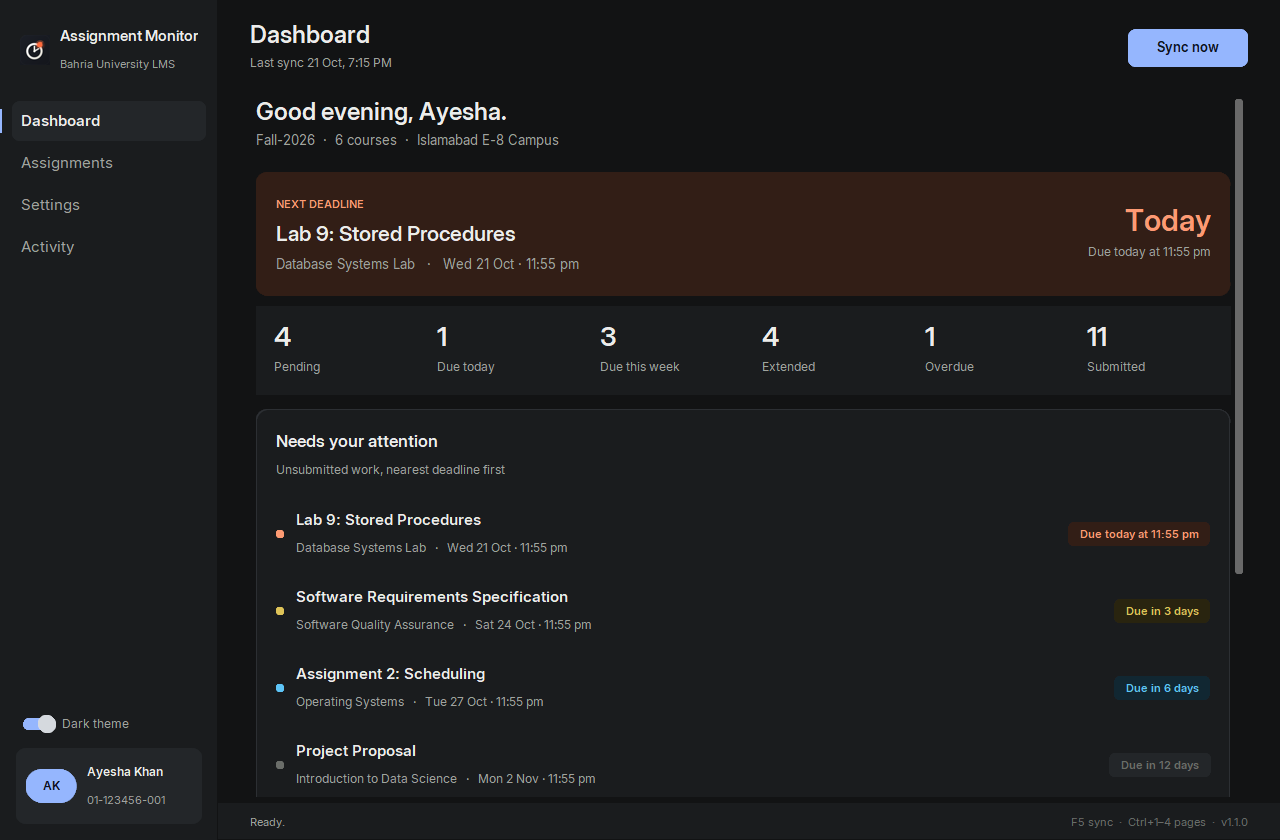
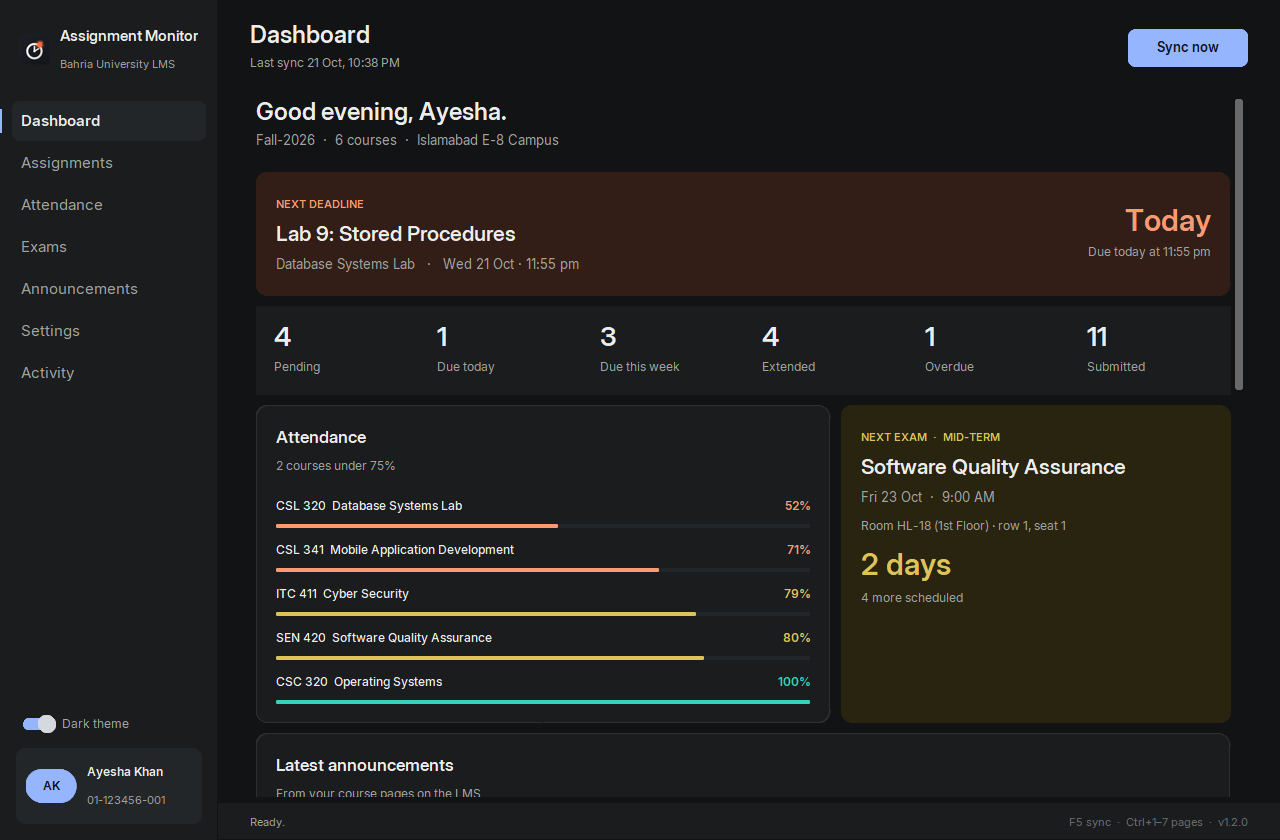
Attendance, exam and announcement alerts are notifications only (voice stays for assignments); website describes the four things the app watches, with attendance and exams in the gallery, a five-step tour over the new dashboard, fresh screenshots and updated FAQ

diff --git a/website/src/data/content.js b/website/src/data/content.js
@@ -15,30 +15,35 @@ export const LINKS = {
 
 export const TICKER = [
   "Checks every evening at 19:00", "Catch-up check after you sign in", "Hourly voice reminder on due days", "Catches extended deadlines",
-  "Reads every course, not just one", "Runs in the tray, no window needed", "Islamabad · Lahore · Karachi campuses", "Nothing sent anywhere but the portal",
+  "Attendance margin per course", "Exam room and seat, with a countdown", "Course announcements in one feed", "Runs in the tray, no window needed",
+  "Islamabad · Lahore · Karachi campuses", "Nothing sent anywhere but the portal",
 ];
 
 export const NUMBERS = [
   { value: 19, suffix: ":00", text: "Automatic check every evening, plus a catch-up when you sign in" },
   { value: 60, suffix: " min", text: "Between voice reminders while an unsubmitted assignment is due today" },
-  { value: 2, suffix: " dates", text: "Read from every deadline: the original and the extension the portal merges into it" },
+  { value: 4, suffix: " things", text: "Watched for you: assignments, attendance, the exam seating plan and course announcements" },
   { value: 3, suffix: " campuses", text: "Islamabad, Lahore and Karachi. Pick yours at sign-in; nothing of yours leaves your PC" },
 ];
 
 export const TOUR = [
-  { spot: [20.5, 25, 75.5, 14.6], label: "Next deadline", title: "The next deadline, with a countdown", text: "Whatever is due soonest and still unsubmitted sits at the top, coloured by urgency. Today is red, this week is amber, later is quiet." },
-  { spot: [20.5, 40.5, 75.5, 11.5], label: "Six counters", title: "Pending, due today, this week, extended, overdue, submitted", text: "Each counter is a filter. Click it and the Assignments page opens on exactly that slice." },
-  { spot: [20.5, 53.5, 75.5, 44], label: "Needs your attention", title: "Everything open, nearest first", text: "Unsubmitted work sorted by deadline, each with its course and exact due time. No digging through six course pages." },
-  { spot: [1, 2.5, 17, 96], label: "Always a click away", title: "Light or dark, tray or window", text: "Switch the theme any time. Close the window and it keeps running in the tray; the background checks run even when it doesn't." },
+  { spot: [20, 20.5, 76.1, 14.9], label: "Next deadline", title: "The next deadline, with a countdown", text: "Whatever is due soonest and still unsubmitted sits at the top, coloured by urgency. Today is red, this week is amber, later is quiet." },
+  { spot: [20, 36.3, 76.1, 10.7], label: "Six counters", title: "Pending, due today, this week, extended, overdue, submitted", text: "Each counter is a filter. Click it and the Assignments page opens on exactly that slice." },
+  { spot: [20, 48.2, 44.9, 37.7], label: "Attendance", title: "Your attendance margin, weakest course first", text: "Every course's percentage from the CMS. Red is under the 75% rule; the Attendance page behind it says how many classes you can still miss, or must attend." },
+  { spot: [65.8, 48.2, 30.3, 37.7], label: "Next exam", title: "Room and seat before you have to ask", text: "The seating plan from the CMS with a countdown, time, room, row and seat. A notification comes the day before and on the morning of the paper." },
+  { spot: [1, 2.5, 16, 96], label: "Always a click away", title: "Light or dark, tray or window", text: "Switch the theme any time. Close the window and it keeps running in the tray; the background checks run even when it doesn't." },
 ];
 
 export const FEATURES = [
   { n: "01", tag: "Deadlines", title: "Catches extended deadlines", text: "When a teacher moves a date, the LMS squashes old and new into one string. The app reads both and flags the change.", datestr: { now: "4 October 2026 - 11:50 am", was: "13 September 2026-11:55 am" } },
   { n: "02", tag: "Reminders", title: "Reminds you out loud", text: "On the day something is due and still unsubmitted, a spoken reminder and a Windows notification every hour until it's done. Pick the voice, volume and speed." },
-  { n: "03", tag: "Automation", title: "Runs itself", text: "Three Windows tasks under your own account. No admin rights, no service, and they work with the window closed.", list: [["Daily check", "19:00"], ["Catch-up check", "2 min after sign-in"], ["Due-today reminder", "hourly"]] },
-  { n: "04", tag: "Tray", title: "Lives in the tray", text: "Close the window and it keeps running quietly. Right-click the icon to open, sync now, or quit. Optionally starts with Windows." },
-  { n: "05", tag: "Updates", title: "Updates itself, safely", text: "Checks the project's GitHub releases on start (switchable). One click downloads the new installer, closes, reinstalls and reopens. Your sign-in and data are kept." },
-  { n: "06", tag: "Source", title: "Open, auditable, yours", text: "MIT licensed. Every release is built by GitHub Actions from the public repository, with tests and a dependency audit on every commit." },
+  { n: "03", tag: "Attendance", title: "Knows your attendance margin", text: "Every course's hours and percentage from the CMS, how many classes you can still miss for the 75% rule, and a notification the day an absence is recorded.", list: [["Under minimum", "needs 10 h present"], ["At risk", "can miss 1 h"], ["On track", "can miss 6 h"]] },
+  { n: "04", tag: "Exams", title: "Carries your seating plan", text: "Date, session, time, room, row and seat for every paper, a countdown on the dashboard, and a notification the day before and on the morning of the exam." },
+  { n: "05", tag: "Announcements", title: "Reads every course's notices", text: "Announcements from all your course pages in one feed, newest first, with a notification for each new one. Deadline extensions are often posted here first." },
+  { n: "06", tag: "Automation", title: "Runs itself", text: "Three Windows tasks under your own account. No admin rights, no service, and they work with the window closed.", list: [["Daily check", "19:00"], ["Catch-up check", "2 min after sign-in"], ["Due-today reminder", "hourly"]] },
+  { n: "07", tag: "Tray", title: "Lives in the tray", text: "Close the window and it keeps running quietly. Right-click the icon to open, sync now, or quit. Optionally starts with Windows." },
+  { n: "08", tag: "Updates", title: "Updates itself, safely", text: "Checks the project's GitHub releases on start (switchable). One click downloads the new installer, closes, reinstalls and reopens. Your sign-in and data are kept." },
+  { n: "09", tag: "Source", title: "Open, auditable, yours", text: "MIT licensed. Every release is built by GitHub Actions from the public repository, with tests and a dependency audit on every commit." },
 ];
 
 export const STEPS = [
@@ -49,8 +54,10 @@ export const STEPS = [
 
 export const SCREENS = [
   { id: "dashboard", label: "Dashboard", caption: "Dashboard: next deadline, counters, attention list, course progress." },
+  { id: "attendance", label: "Attendance", caption: "Attendance: every course's hours, the margin to the 75% rule, and the class-by-class record." },
+  { id: "exams", label: "Exams", caption: "Exams: the seating plan with room, row and seat, and a countdown to each paper." },
   { id: "assignments", label: "Assignments", caption: "Assignments: filters, course picker, search, extension history and marks." },
-  { id: "settings", label: "Settings", caption: "Settings: account, theme, tray, voice and notifications, automatic checks, privacy." },
+  { id: "settings", label: "Settings", caption: "Settings: account, theme, tray, voice and notifications, campus tracking, automatic checks, privacy." },
   { id: "setup", label: "Sign-in", caption: "First run: sign in once, tick automatic checks, done." },
 ];
 
@@ -63,12 +70,13 @@ export const PRIVACY_CARDS = [
 export const FAQ = [
   { q: "Windows says \"Windows protected your PC\". Is it safe?", a: "Yes. The warning appears because the installer is not yet code-signed; the project is applying for a free open-source certificate. Click \"More info\", then \"Run anyway\". If you prefer, build it yourself from the source code with one command; the result is identical." },
   { q: "Is this an official Bahria University app?", a: "No. Assignment Monitor is an independent student project. It is not affiliated with, endorsed by, or supported by Bahria University." },
-  { q: "What does it do with my account?", a: "It signs in with your own credentials and reads your own assignments page, the same way you would in a browser. It never submits, uploads or changes anything on the portal, and it never sends your data anywhere." },
+  { q: "What does it do with my account?", a: "It signs in with your own credentials and reads your own pages, the same way you would in a browser: the LMS assignments and announcements, and the CMS attendance and exam seating plan. Each can be switched off in Settings. It never submits, uploads or changes anything on the portal, and it never sends your data anywhere." },
   { q: "Do I need Google Chrome?", a: "If Chrome is installed it is used in the background. If not, a browser engine is downloaded once automatically. You never see a browser window." },
+  { q: "Which alerts are spoken?", a: "Only assignment reminders use the voice: the due-today reminder and the after-sync summary. Attendance, exam and announcement alerts are ordinary Windows notifications, and every category can be switched off in Settings." },
   { q: "Does my PC need to be on at 7 PM?", a: "For the 7 PM check, yes, but if it was off a catch-up check runs two minutes after you next sign in to Windows. The hourly reminder only fires while something is due that day." },
   { q: "How do I uninstall?", a: "Windows Settings → Apps → Assignment Monitor → Uninstall. It closes the app, removes the background tasks and the Startup entry, deletes the program, and asks whether to delete your saved sign-in and cached data too." },
   { q: "Installer or portable zip?", a: "The installer is the easy path: Start Menu and Desktop icons, in-app updates, clean uninstall. The zip is the same program without an installer; unzip it anywhere and run AssignmentMonitor.exe. Both keep their data in your local app-data folder." },
-  { q: "Where is my data kept?", a: "In %LOCALAPPDATA%\\Assignment Monitor: your encrypted sign-in, preferences, the cached assignment list, a log and the browser profile. Nothing is stored anywhere else." },
+  { q: "Where is my data kept?", a: "In %LOCALAPPDATA%\\Assignment Monitor: your encrypted sign-in, preferences, the cached assignments, attendance, exam plan and announcements, a log and the browser profile. Nothing is stored anywhere else." },
   { q: "Can I run it from source?", a: "Yes. Clone the repository, install the pinned requirements and run python app.py. The README has the exact steps, and python build.py produces the same installer the releases ship." },
 ];
 

diff --git a/website/index.html b/website/index.html
@@ -4,7 +4,7 @@
   <meta charset="utf-8">
   <meta name="viewport" content="width=device-width, initial-scale=1, viewport-fit=cover">
   <title>Assignment Monitor — never miss a Bahria LMS deadline</title>
-  <meta name="description" content="A free, open-source Windows app that watches your Bahria University LMS assignments: daily checks, hourly reminders on due days, extended-deadline detection. Everything stays on your PC.">
+  <meta name="description" content="A free, open-source Windows app that watches your Bahria University LMS and CMS: assignments with extended-deadline detection, attendance margins, the exam seating plan and course announcements. Daily checks, hourly reminders on due days. Everything stays on your PC.">
   <meta name="theme-color" content="#07080d">
   <meta name="color-scheme" content="dark">
   <link rel="icon" href="/assets/logo.svg?v=2" type="image/svg+xml">
@@ -14,7 +14,7 @@
   <meta property="og:type" content="website">
   <meta property="og:url" content="https://assignment-monitor.vercel.app/">
   <meta property="og:title" content="Assignment Monitor — never miss a Bahria LMS deadline">
-  <meta property="og:description" content="Free, open-source Windows app. Daily checks, hourly reminders, extended-deadline detection. Your data never leaves your PC.">
+  <meta property="og:description" content="Free, open-source Windows app. Assignments, attendance, exam seats and announcements from the Bahria portal, with daily checks and hourly reminders. Your data never leaves your PC.">
   <meta property="og:image" content="https://assignment-monitor.vercel.app/assets/og.png">
   <meta name="twitter:card" content="summary_large_image">
   <link rel="preconnect" href="https://fonts.googleapis.com">

diff --git a/website/src/components/home/Hero.jsx b/website/src/components/home/Hero.jsx
@@ -27,7 +27,7 @@ export default function Hero() {
             {WORDS.map((w) => <span className="w" key={w} aria-hidden="true"><motion.span variants={word}>{w}</motion.span></span>)}
             <span className="w" aria-hidden="true"><motion.span className="heading-accent hero-accent" variants={word}>again.</motion.span></span>
           </h1>
-          <motion.p className="lede" variants={rise}>Assignment Monitor signs in to the portal for you, reads every course, catches the extended deadlines the LMS hides, and reminds you out loud on the day something is due. Wherever your campus is, it keeps watch.</motion.p>
+          <motion.p className="lede" variants={rise}>Assignment Monitor signs in to the portal for you and keeps watch on the four things that matter: every course's assignments, with the extended deadlines the LMS hides; your attendance margin; your exam room and seat; and course announcements. It reminds you out loud on the day something is due.</motion.p>
           <motion.div className="hero-cta" variants={rise}>
             <DownloadActions size="lg" />
           </motion.div>

diff --git a/website/src/pages/Home.jsx b/website/src/pages/Home.jsx
@@ -19,7 +19,7 @@ import { SectionHead, Reveal } from "../components/Reveal.jsx";
 import { FAQ } from "../data/content.js";
 
 export default function Home() {
-  usePageMeta("", "A free, open-source Windows app that watches your Bahria University LMS assignments: daily checks, hourly reminders on due days, extended-deadline detection. Everything stays on your PC.");
+  usePageMeta("", "A free, open-source Windows app that watches your Bahria University LMS and CMS: assignments with extended-deadline detection, attendance margins, the exam seating plan and course announcements. Everything stays on your PC.");
   const { hash } = useLocation();
   const { scrollTo } = useScroll();
   const { introDone } = useScene();

diff --git a/notifier.py b/notifier.py
@@ -111,25 +111,19 @@ def alert_attendance(changes: dict, minimum: int) -> None:
     for c in dropped:
         if c not in new_abs:
             lines.append(f"- {c['code']} {c['title'][:28]} is now under {minimum}% ({c['percent']:.0f}%)")
-    first = (new_abs or dropped)[0]
     if dropped:
         title = f"Attendance under {minimum}% in {_plural(len(dropped), 'course')}"
-        voice = (f"Attention: your attendance in {first['title']} has dropped to {first['percent']:.0f} percent, "
-                 f"under the {minimum} percent minimum.")
     else:
         title = f"New absence in {_plural(len(new_abs), 'course')}"
-        voice = f"An absence was recorded in {first['title']}. Attendance is now {first['percent']:.0f} percent."
-    _notify(title, "\n".join(lines), voice)
+    _notify(title, "\n".join(lines))
 
 
 def alert_announcements(new_items: list) -> None:
     if not new_items:
         return
     lines = [f"- {a['course'][:26]}: {a['text'][:70]}" for a in new_items[:3]]
-    first = new_items[0]
     title = f"{_plural(len(new_items), 'new announcement')} on the LMS"
-    voice = f"New announcement in {first['course']}: {first['text'][:140]}"
-    _notify(title, "\n".join(lines), voice)
+    _notify(title, "\n".join(lines))
 
 
 def _exam_line(e: dict) -> str:
@@ -149,16 +143,12 @@ def alert_exams_soon(exams: list) -> None:
     else:
         lead = f"in {_plural(first['days'], 'day')}"
     title = f"Exam {lead}: {first['title'][:40]}"
-    voice = (f"Reminder: your {first.get('exam_type', '').lower() or 'exam'} for {first['title']} is {lead} at "
-             f"{first['when'].strftime('%I:%M %p').lstrip('0')}" + (f", {seat_text(first)}." if seat_text(first) else "."))
-    _notify(title, "\n".join(_exam_line(e) for e in exams[:4]), voice)
+    _notify(title, "\n".join(_exam_line(e) for e in exams[:4]))
 
 
 def alert_exam_today(e: dict) -> None:
     """Morning-of reminder (hourly job, once per exam)."""
-    voice = (f"Good luck: your {e.get('exam_type', '').lower() or 'exam'} for {e['title']} is today at "
-             f"{e['when'].strftime('%I:%M %p').lstrip('0')}" + (f", {seat_text(e)}." if seat_text(e) else "."))
-    _notify(f"Exam today: {e['title'][:40]}", _exam_line(e), voice)
+    _notify(f"Exam today: {e['title'][:40]}", _exam_line(e))
 
 
 def alert_exams_scheduled(exams: list) -> None:
@@ -171,5 +161,4 @@ def alert_exams_scheduled(exams: list) -> None:
     title = f"Exam schedule posted: {_plural(len(ups), 'paper')}"
     body = "\n".join(f"- {e['title'][:34]}: {e['date']} {e['start_time']}" + (f" · {seat_text(e)}" if seat_text(e) else "")
                      for e in ups[:4])
-    _notify(title, body, f"The exam seating plan is out for {_plural(len(ups), 'paper')}. "
-                         "Open Assignment Monitor to see your rooms and seats.")
+    _notify(title, body)
